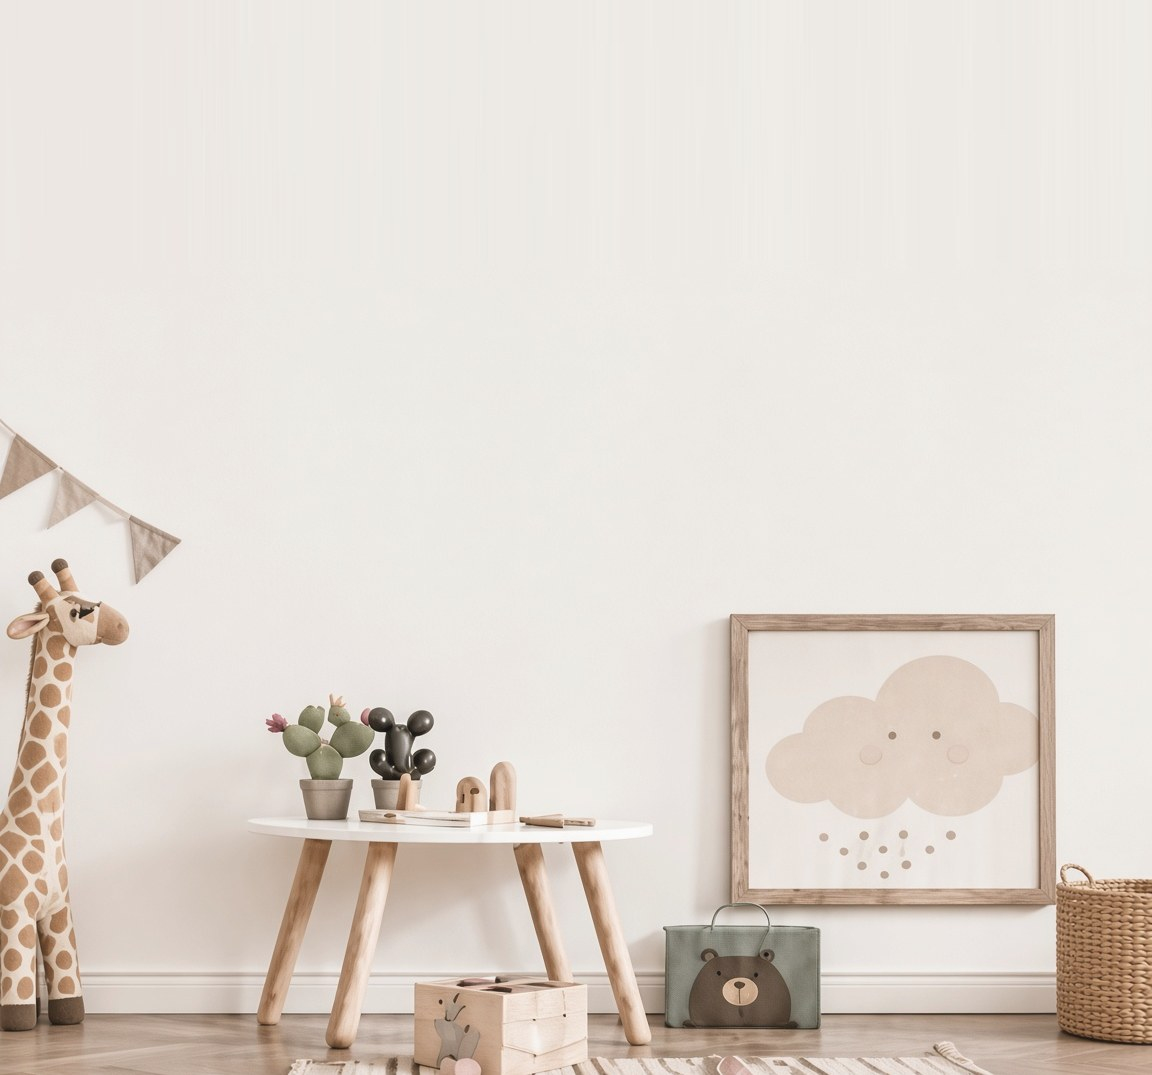
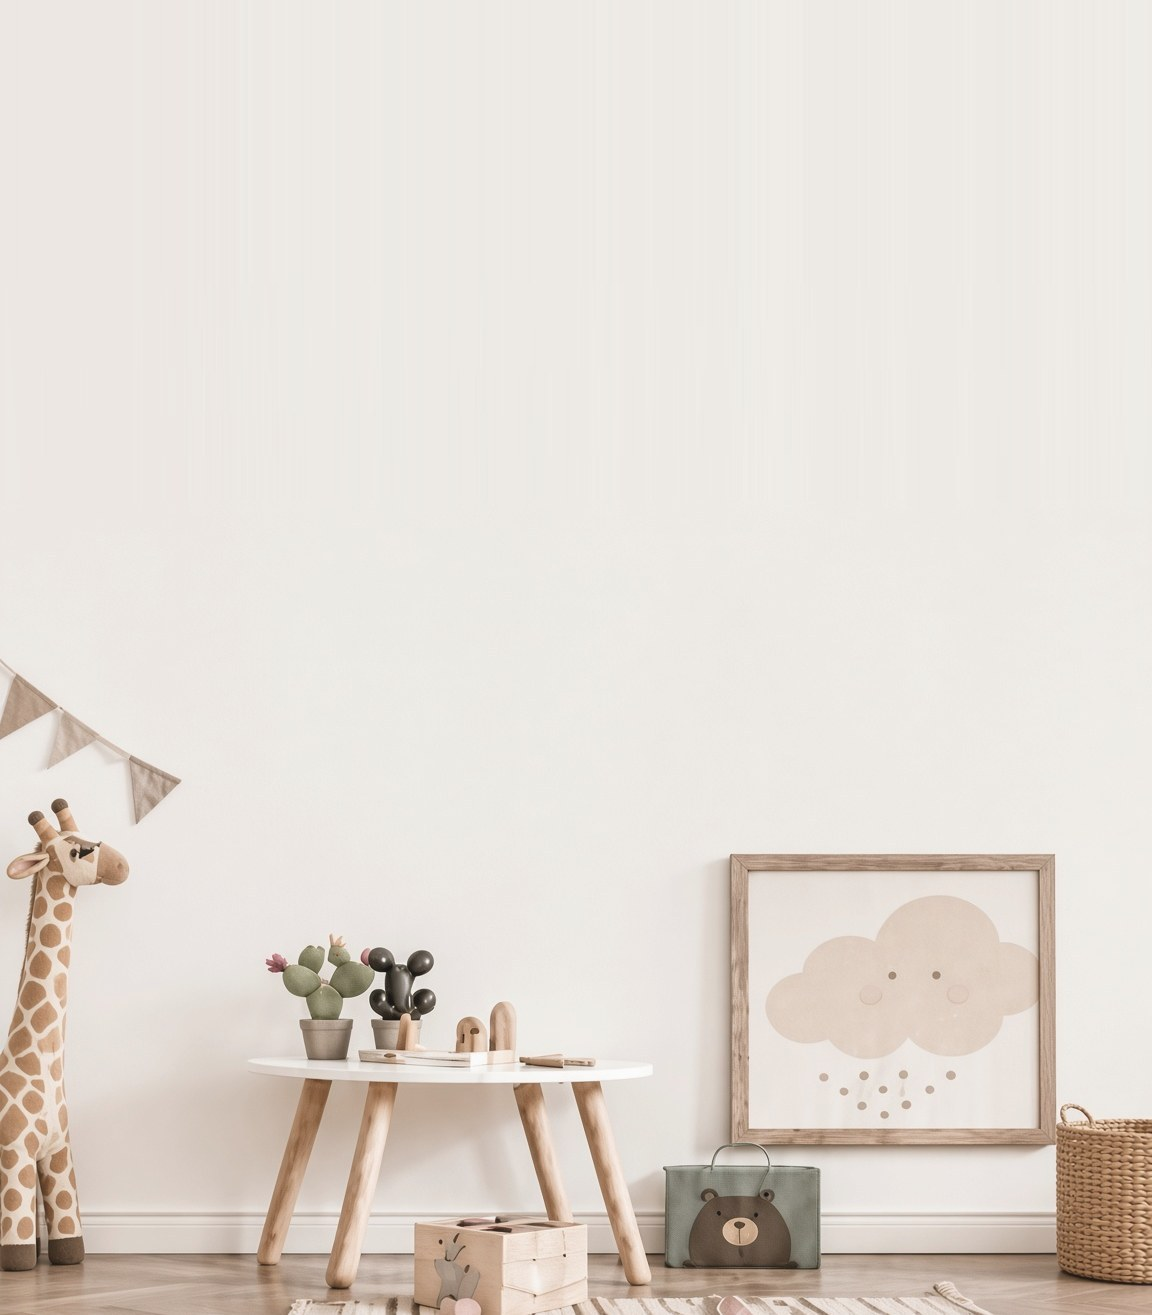
Show the full hero photo at a shorter height

Changed region(s): [[0.0, 0.3991, 1.0, 1.0]]

diff --git a/src/pages/LandingPage.tsx b/src/pages/LandingPage.tsx
@@ -5,7 +5,7 @@ import { BrushMark, Sparkle } from '../components/BrushTitle'
 import { Footer } from '../components/Footer'
 import { Header } from '../components/Header'
 
-const heroPhoto = '/assets/hero-room.jpg'
+const heroPhoto = '/assets/hero-room.jpg?v=3'
 const ink = '#4A403A'
 
 const steps = [
@@ -162,13 +162,13 @@ export function LandingPage() {
       <Header />
 
       <main>
-        <section className="relative isolate overflow-hidden bg-[#EFECE7]">
+        <section className="relative isolate bg-[#EFECE7]">
           <img
             src={heroPhoto}
             alt="חדר ילדים מעוצב עם ג'ירפה, נורות דגלים ופינת משחק"
-            className="absolute inset-0 -z-10 h-full w-full origin-[62%_100%] scale-[1.17] object-cover object-[56%_100%] sm:scale-100 sm:object-bottom"
+            className="mx-auto block h-auto w-full sm:h-[680px] sm:w-auto"
           />
-          <div className="mx-auto max-w-3xl px-4 pt-4 pb-[185px] text-center sm:pt-12 sm:pb-[500px]">
+          <div className="absolute inset-x-0 top-0 mx-auto max-w-3xl px-4 pt-4 text-center sm:pt-12">
             <h1 className="text-[2.3rem] leading-[0.95] font-semibold text-[#524436] sm:text-[3.6rem] sm:leading-[1.05]">
               חדר ילדים מעוצב
               <br />
